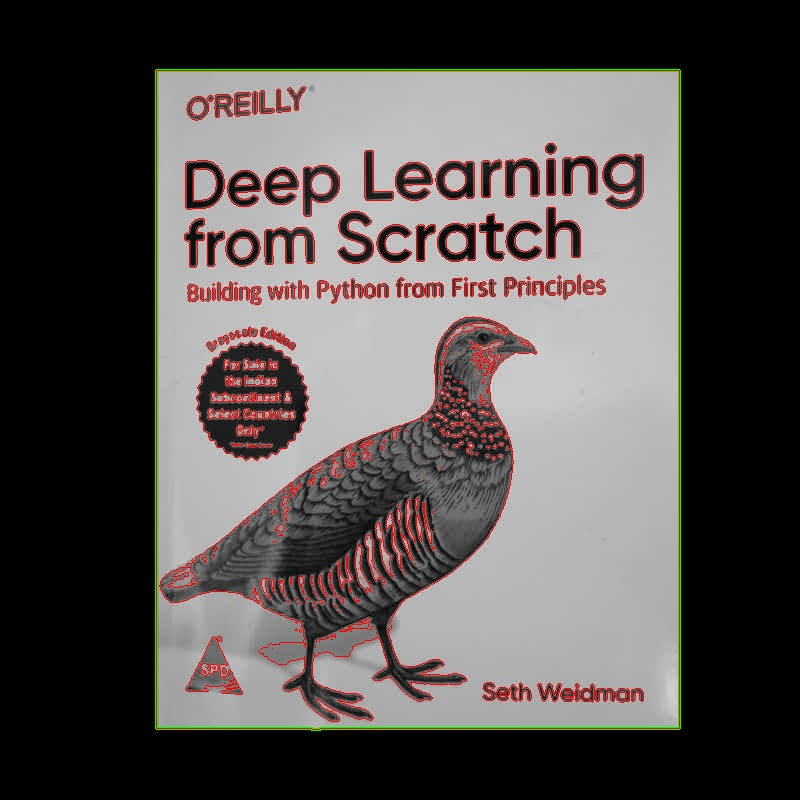
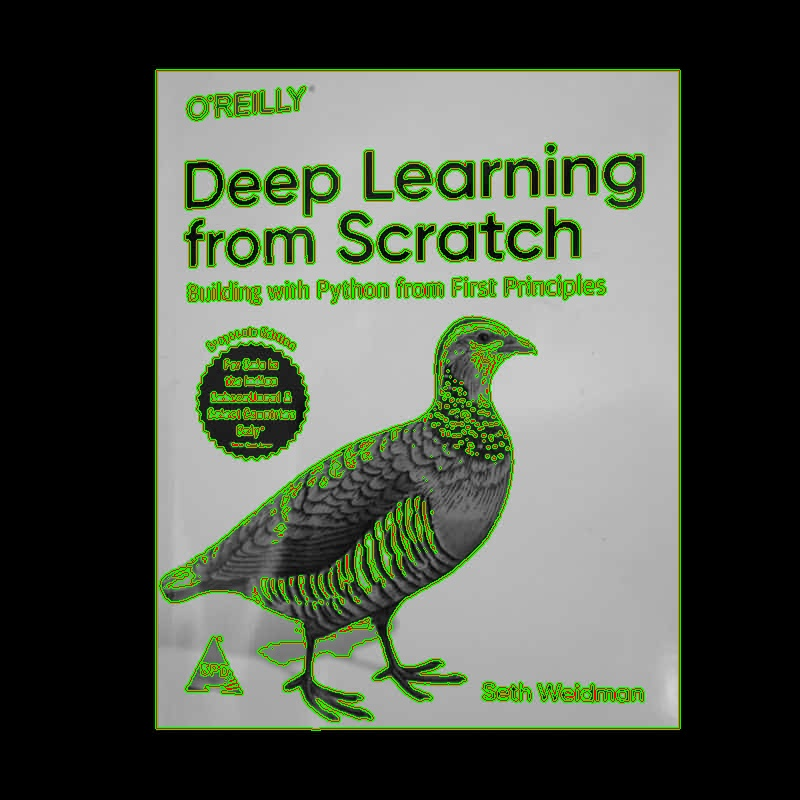
contour file Reter_Tree added image

diff --git a/Day4/contour_detect.py b/Day4/contour_detect.py
@@ -7,7 +7,7 @@ img = cv2.imread('contour.jpg', cv2.IMREAD_GRAYSCALE)
 _, thresh = cv2.threshold(img, 127, 255, cv2.THRESH_BINARY)
 
 # Find contours
-contours1, _ = cv2.findContours(thresh, cv2.RETR_EXTERNAL, cv2.CHAIN_APPROX_SIMPLE)
+contours1, _ = cv2.findContours(thresh, cv2.RETR_TREE, cv2.CHAIN_APPROX_SIMPLE)
 contours2, _ = cv2.findContours(thresh, cv2.RETR_LIST, cv2.CHAIN_APPROX_NONE)
 
 # Draw contours on a copy of the original image
